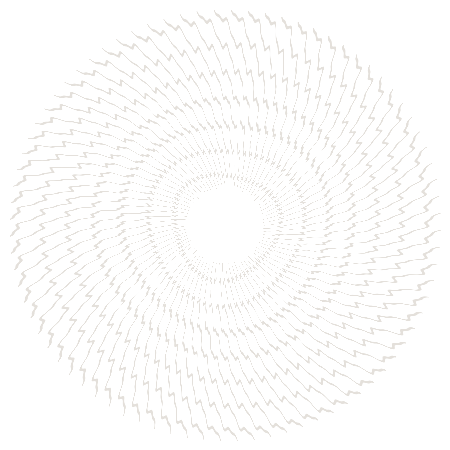
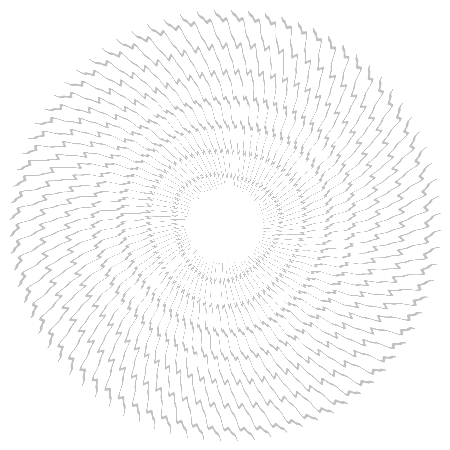
Use white interactive dial and static ambient hands

diff --git a/faces/radial-moire/generate_assets.py b/faces/radial-moire/generate_assets.py
@@ -15,6 +15,7 @@ dx, dy = x - cx, y - cy
 r = np.hypot(dx, dy)
 angle = np.arctan2(dx, -dy)  # Clockwise from twelve o'clock.
 circle = r <= 216
+paper = r <= 225
 
 # Curved radial lines repeat exactly every 4.5 degrees, so the rotating plate
 # has no seam when its four-second cycle restarts.
@@ -81,8 +82,9 @@ for index in range(12):
 etched = engraving(field, .08)
 rosette = np.maximum(0, np.cos(24 * angle + .095 * r + .25 * np.sin(3 * angle))) ** 34
 inner = np.maximum(0, np.cos(2 * np.pi * (r / 12 + .075 * np.sin(5 * angle)))) ** 28
-dial = 5 + 19 * etched + 12 * rosette + 11 * inner + 100 * ticks
-rgba("dial", dial * 1.14, dial * 1.03, dial * .81, np.where(circle, 255, 0))
+dial_ink = 56 * etched + 30 * rosette + 25 * inner + 164 * ticks
+rgba("dial", 252 - dial_ink, 250 - .95 * dial_ink, 245 - .78 * dial_ink,
+     np.where(paper, 255, 0))
 
 # The silhouette is stored as separate curved ink contours. Only the overlap
 # with the moving slit plate reveals the interference pointer.
@@ -91,14 +93,18 @@ slits = engraving(plate_field, .25)
 for label, length, width in (("hour", 111, 13), ("minute", 176, 10)):
     silhouette = hand(length, width)
     alpha = np.where(circle, silhouette * (23 + 222 * ink), 0)
-    rgba(f"{label}_engraving", 249, 234, 199, alpha)
+    rgba(f"{label}_engraving", 39, 34, 29, alpha)
+    # Ambient keeps only static interference contours. WFF rotates this
+    # resource with the minute/hour, without evaluating either moving plate.
+    ambient = np.where(circle, silhouette * (54 + 180 * ink * slits), 0)
+    rgba(f"{label}_ambient", 235, 226, 207, ambient)
 
 # Residual translucency preserves legibility at the trough of the cycle.
 rgba("slit", 0, 0, 0, np.where(circle, 40 + 215 * slits, 0))
 plate_light = engraving(plate_field + .43, .065)
-rgba("plate", 122, 104, 77, np.where(circle & (r > 38), plate_light * 52, 0))
+rgba("plate", 59, 49, 39, np.where(circle & (r > 38), plate_light * 78, 0))
 slow_lines = engraving(slow_field + .26, .13)
-rgba("slow_plate", 155, 132, 97, np.where(circle & (r > 38), slow_lines * 45, 0))
+rgba("slow_plate", 82, 68, 52, np.where(circle & (r > 38), slow_lines * 58, 0))
 slow_openings = engraving(slow_field, .30)
 rgba("slow_veil", 0, 0, 0, np.where(circle, 105 + 150 * slow_openings, 0))
 

diff --git a/faces/radial-moire/notes.md b/faces/radial-moire/notes.md
@@ -28,6 +28,9 @@ continues over it.
 
 Check the browser preview with **Animate** enabled and the Pixel Watch in
 interactive mode. Millisecond-driven rendering costs more battery than the
-old 1 Hz stepping; evaluate performance on the physical watch. Ambient mode
-hides the decorative moving plate. Regenerate assets with
+old 1 Hz stepping; evaluate performance on the physical watch. The interactive
+dial uses dark ink on white paper. Ambient mode hides the dial, both moving
+plates, and the interactive hand groups. Separate static, light-on-black
+interference hand assets rotate only with the hour and minute; the screen
+remains black and the plate textures do not move. Regenerate assets with
 `python3 faces/radial-moire/generate_assets.py` (NumPy and Pillow).
